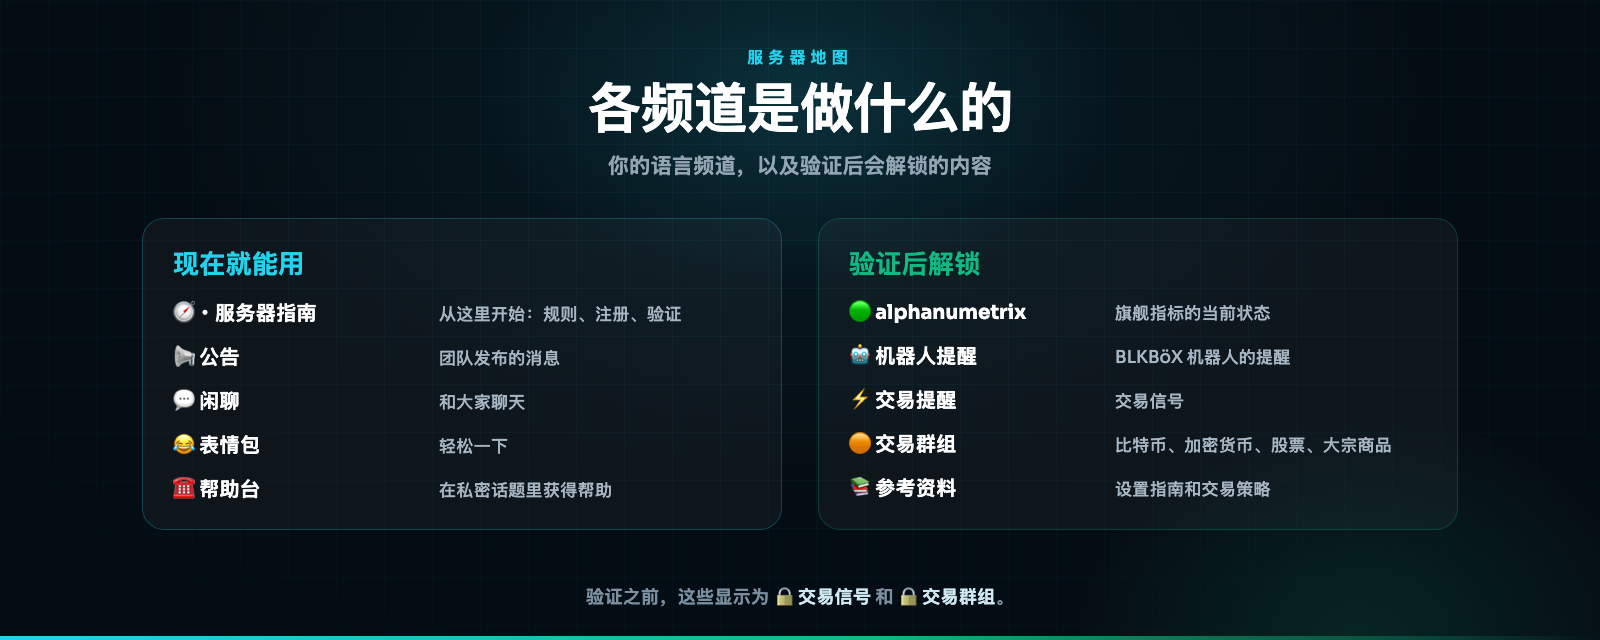
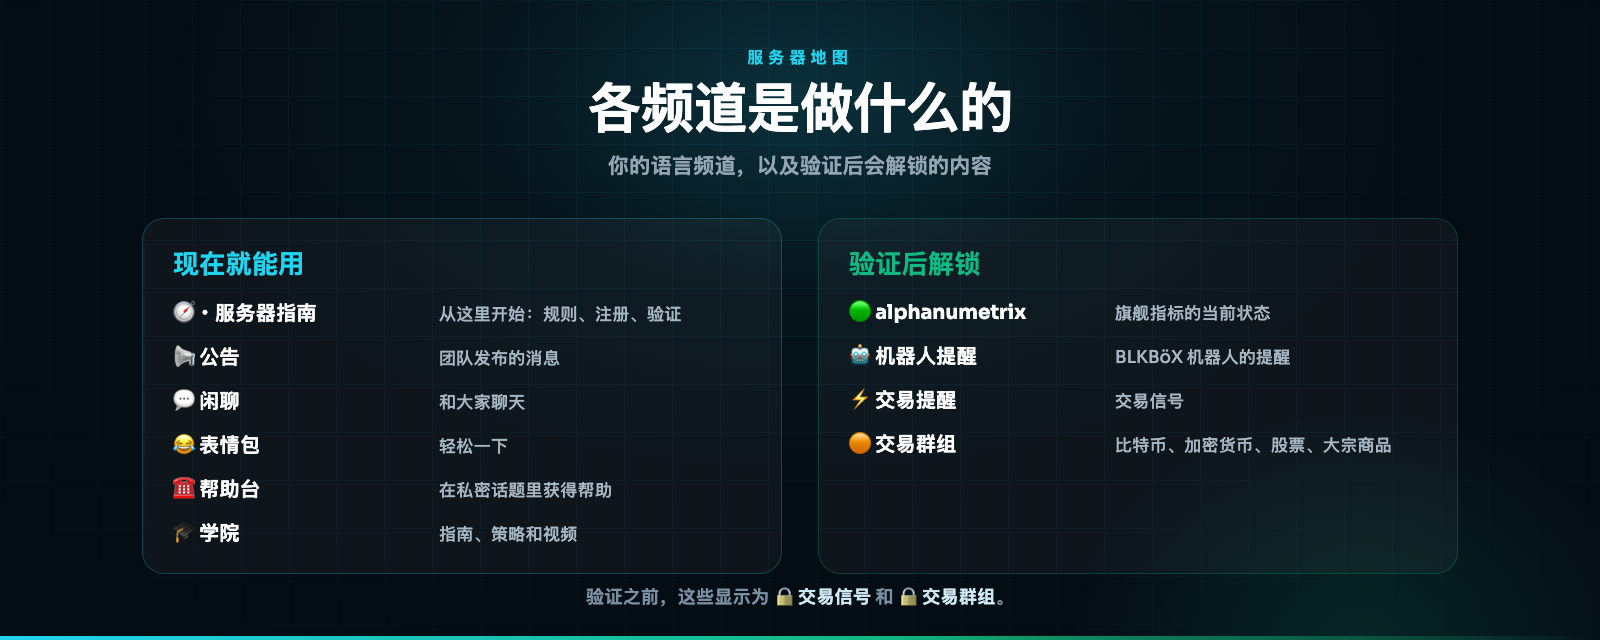
Academy: one forum replaces REFERENCE's three, under help-desk
Setup guides, trading strategies and the discussion forum become one 🎓
academy forum at the bottom of Community, with the same five tags in every
language (setup guide, strategy, video tutorial, question, discussion).
Everyone who picked a language can read it; verified members post and
reply. The mirror now carries a post's tags into its twins by position.

New onboarding step academy moves the English posts into the academy
through a webhook under the original author's name, so the bot translates
them into every language; cleanup deletes the old forums and REFERENCE only
after that. The FAQ and the guide cards describe the academy.

diff --git a/bot/scripts/onboarding.ts b/bot/scripts/onboarding.ts
@@ -23,6 +23,7 @@ import {
   type NonThreadGuildBasedChannel,
   type OverwriteResolvable,
   type TextChannel,
+  type Message,
 } from "discord.js";
 import { dirname, join } from "node:path";
 import { fileURLToPath } from "node:url";
@@ -51,7 +52,7 @@ type Kind =
   | "announcements" | "teaser" | "signals" | "flagship" | "investor" | "daytrade"
   | "lock-flagship" | "lock-investor" | "lock-daytrade" | "lock-crypto" | "lock-stocks" | "lock-commodities"
   | "verify" | "btcgate" | "tradegate" | "general" | "trader" | "bitcoin" | "crypto" | "stocks" | "commodities" | "memes" | "help"
-  | "start" | "guides" | "strategies" | "forums";
+  | "start" | "guides" | "strategies" | "forums" | "academy";
 
 interface Spec {
   name: string;
@@ -102,9 +103,8 @@ const LAYOUT: { cat: "ann" | "com" | "ref"; top?: true; kind: Kind; tier: Tier; 
   { cat: "com", kind: "memes", tier: "free" },
   // Help-desk last in Community, memes just above it.
   { cat: "com", kind: "help", tier: "help", readOnly: true, panel: "support" },
-  { cat: "ref", kind: "guides", tier: "member", type: "forum" },
-  { cat: "ref", kind: "strategies", tier: "member", type: "forum" },
-  { cat: "ref", kind: "forums", tier: "member", type: "forum" },
+  // One forum for guides, strategies, videos and questions, under help-desk: everyone reads, verified members post.
+  { cat: "com", kind: "academy", tier: "trader", type: "forum" },
 ];
 
 /** The categories as they were named with an emoji; renamed in place to the folder style below. */
@@ -133,16 +133,16 @@ const CATS = Object.fromEntries(
 ) as Record<Lang, Record<"ann" | "com" | "ref", string>>;
 
 const NAMES: Record<Lang, Record<Kind, string>> = {
-  en: { announcements: "📢・announcements", flagship: "🟢🟢・alphanumetrix", investor: "💼・investor-signals", daytrade: "🤖・bot-alerts", "lock-flagship": "", "lock-investor": "", "lock-daytrade": "", "lock-crypto": "", "lock-stocks": "", "lock-commodities": "", teaser: "🔒・trade-signals", signals: "⚡・trade-alerts", verify: "✅・verify", btcgate: "🔒・bitcoin", tradegate: "🔒・trading-group", general: "💬・general", trader: "📈・trader-chat", bitcoin: "🟠・bitcoin", crypto: "🪙・crypto", stocks: "📊・stocks", commodities: "🛢・commodities", memes: "😂・memes", help: "☎・help-desk", start: "🧭・server-guide", guides: "📕・setup-guides", strategies: "📗・trading-strategies", forums: "🧵・forums" },
-  zh: { announcements: "📢・公告", flagship: "🟢🟢・alphanumetrix", investor: "💼・投资信号", daytrade: "🤖・机器人提醒", "lock-flagship": "", "lock-investor": "", "lock-daytrade": "", "lock-crypto": "", "lock-stocks": "", "lock-commodities": "", teaser: "🔒・交易信号", signals: "⚡・交易提醒", verify: "✅・验证", btcgate: "🔒・比特币", tradegate: "🔒・交易群组", general: "💬・闲聊", trader: "📈・交易者聊天", bitcoin: "🟠・比特币", crypto: "🪙・加密货币", stocks: "📊・股票", commodities: "🛢・大宗商品", memes: "😂・表情包", help: "☎・帮助台", start: "🧭・服务器指南", guides: "📕・设置指南", strategies: "📗・交易策略", forums: "🧵・论坛" },
-  ko: { announcements: "📢・공지사항", flagship: "🟢🟢・alphanumetrix", investor: "💼・투자-신호", daytrade: "🤖・봇-알림", "lock-flagship": "", "lock-investor": "", "lock-daytrade": "", "lock-crypto": "", "lock-stocks": "", "lock-commodities": "", teaser: "🔒・매매신호", signals: "⚡・매매신호", verify: "✅・인증", btcgate: "🔒・비트코인", tradegate: "🔒・트레이딩-그룹", general: "💬・자유채팅", trader: "📈・트레이더-채팅", bitcoin: "🟠・비트코인", crypto: "🪙・코인", stocks: "📊・주식", commodities: "🛢・원자재", memes: "😂・밈", help: "☎・도움말", start: "🧭・서버-가이드", guides: "📕・설정-가이드", strategies: "📗・매매-전략", forums: "🧵・포럼" },
-  id: { announcements: "📢・pengumuman", flagship: "🟢🟢・alphanumetrix", investor: "💼・sinyal-investor", daytrade: "🤖・alert-bot", "lock-flagship": "", "lock-investor": "", "lock-daytrade": "", "lock-crypto": "", "lock-stocks": "", "lock-commodities": "", teaser: "🔒・sinyal-trading", signals: "⚡・sinyal-trading", verify: "✅・verifikasi", btcgate: "🔒・bitcoin", tradegate: "🔒・grup-trading", general: "💬・obrolan-umum", trader: "📈・obrolan-trader", bitcoin: "🟠・bitcoin", crypto: "🪙・kripto", stocks: "📊・saham", commodities: "🛢・komoditas", memes: "😂・meme", help: "☎・bantuan", start: "🧭・panduan-server", guides: "📕・panduan-setup", strategies: "📗・strategi-trading", forums: "🧵・forum" },
-  vi: { announcements: "📢・thông-báo", flagship: "🟢🟢・alphanumetrix", investor: "💼・tín-hiệu-đầu-tư", daytrade: "🤖・cảnh-báo-bot", "lock-flagship": "", "lock-investor": "", "lock-daytrade": "", "lock-crypto": "", "lock-stocks": "", "lock-commodities": "", teaser: "🔒・tín-hiệu-giao-dịch", signals: "⚡・tín-hiệu", verify: "✅・xác-minh", btcgate: "🔒・bitcoin", tradegate: "🔒・nhóm-giao-dịch", general: "💬・tán-gẫu", trader: "📈・trò-chuyện-trader", bitcoin: "🟠・bitcoin", crypto: "🪙・crypto", stocks: "📊・cổ-phiếu", commodities: "🛢・hàng-hóa", memes: "😂・meme", help: "☎・hỗ-trợ", start: "🧭・hướng-dẫn-server", guides: "📕・hướng-dẫn", strategies: "📗・chiến-lược", forums: "🧵・diễn-đàn" },
-  es: { announcements: "📢・anuncios", flagship: "🟢🟢・alphanumetrix", investor: "💼・señales-inversión", daytrade: "🤖・alertas-bot", "lock-flagship": "", "lock-investor": "", "lock-daytrade": "", "lock-crypto": "", "lock-stocks": "", "lock-commodities": "", teaser: "🔒・señales-trading", signals: "⚡・alertas", verify: "✅・verificar", btcgate: "🔒・bitcoin", tradegate: "🔒・grupo-trading", general: "💬・general", trader: "📈・chat-traders", bitcoin: "🟠・bitcoin", crypto: "🪙・cripto", stocks: "📊・acciones", commodities: "🛢・materias-primas", memes: "😂・memes", help: "☎・ayuda", start: "🧭・guía-del-servidor", guides: "📕・guías", strategies: "📗・estrategias", forums: "🧵・foros" },
-  pt: { announcements: "📢・anúncios", flagship: "🟢🟢・alphanumetrix", investor: "💼・sinais-investimento", daytrade: "🤖・alertas-bot", "lock-flagship": "", "lock-investor": "", "lock-daytrade": "", "lock-crypto": "", "lock-stocks": "", "lock-commodities": "", teaser: "🔒・sinais-trading", signals: "⚡・alertas", verify: "✅・verificar", btcgate: "🔒・bitcoin", tradegate: "🔒・grupo-trading", general: "💬・geral", trader: "📈・chat-traders", bitcoin: "🟠・bitcoin", crypto: "🪙・cripto", stocks: "📊・ações", commodities: "🛢・commodities", memes: "😂・memes", help: "☎・ajuda", start: "🧭・guia-do-servidor", guides: "📕・guias", strategies: "📗・estratégias", forums: "🧵・fóruns" },
-  tr: { announcements: "📢・duyurular", flagship: "🟢🟢・alphanumetrix", investor: "💼・yatırım-sinyalleri", daytrade: "🤖・bot-uyarıları", "lock-flagship": "", "lock-investor": "", "lock-daytrade": "", "lock-crypto": "", "lock-stocks": "", "lock-commodities": "", teaser: "🔒・işlem-sinyalleri", signals: "⚡・sinyaller", verify: "✅・doğrulama", btcgate: "🔒・bitcoin", tradegate: "🔒・trading-grubu", general: "💬・sohbet", trader: "📈・trader-sohbet", bitcoin: "🟠・bitcoin", crypto: "🪙・kripto", stocks: "📊・hisseler", commodities: "🛢・emtia", memes: "😂・mizah", help: "☎・yardım", start: "🧭・sunucu-rehberi", guides: "📕・kurulum-rehberi", strategies: "📗・stratejiler", forums: "🧵・forum" },
-  ru: { announcements: "📢・объявления", flagship: "🟢🟢・alphanumetrix", investor: "💼・инвест-сигналы", daytrade: "🤖・алерты-бота", "lock-flagship": "", "lock-investor": "", "lock-daytrade": "", "lock-crypto": "", "lock-stocks": "", "lock-commodities": "", teaser: "🔒・торговые-сигналы", signals: "⚡・сигналы", verify: "✅・верификация", btcgate: "🔒・биткоин", tradegate: "🔒・трейдинг-группа", general: "💬・общий-чат", trader: "📈・чат-трейдеров", bitcoin: "🟠・биткоин", crypto: "🪙・крипта", stocks: "📊・акции", commodities: "🛢・сырьё", memes: "😂・мемы", help: "☎・помощь", start: "🧭・гид-по-серверу", guides: "📕・гайды", strategies: "📗・стратегии", forums: "🧵・форум" },
-  ja: { announcements: "📢・お知らせ", flagship: "🟢🟢・alphanumetrix", investor: "💼・投資シグナル", daytrade: "🤖・ボットアラート", "lock-flagship": "", "lock-investor": "", "lock-daytrade": "", "lock-crypto": "", "lock-stocks": "", "lock-commodities": "", teaser: "🔒・トレードシグナル", signals: "⚡・シグナル", verify: "✅・認証", btcgate: "🔒・ビットコイン", tradegate: "🔒・トレードグループ", general: "💬・雑談", trader: "📈・トレーダー-チャット", bitcoin: "🟠・ビットコイン", crypto: "🪙・暗号資産", stocks: "📊・株式", commodities: "🛢・コモディティ", memes: "😂・ミーム", help: "☎・ヘルプ", start: "🧭・サーバーガイド", guides: "📕・設定ガイド", strategies: "📗・トレード戦略", forums: "🧵・フォーラム" },
+  en: { academy: "🎓・academy", announcements: "📢・announcements", flagship: "🟢🟢・alphanumetrix", investor: "💼・investor-signals", daytrade: "🤖・bot-alerts", "lock-flagship": "", "lock-investor": "", "lock-daytrade": "", "lock-crypto": "", "lock-stocks": "", "lock-commodities": "", teaser: "🔒・trade-signals", signals: "⚡・trade-alerts", verify: "✅・verify", btcgate: "🔒・bitcoin", tradegate: "🔒・trading-group", general: "💬・general", trader: "📈・trader-chat", bitcoin: "🟠・bitcoin", crypto: "🪙・crypto", stocks: "📊・stocks", commodities: "🛢・commodities", memes: "😂・memes", help: "☎・help-desk", start: "🧭・server-guide", guides: "📕・setup-guides", strategies: "📗・trading-strategies", forums: "🧵・forums" },
+  zh: { academy: "🎓・学院", announcements: "📢・公告", flagship: "🟢🟢・alphanumetrix", investor: "💼・投资信号", daytrade: "🤖・机器人提醒", "lock-flagship": "", "lock-investor": "", "lock-daytrade": "", "lock-crypto": "", "lock-stocks": "", "lock-commodities": "", teaser: "🔒・交易信号", signals: "⚡・交易提醒", verify: "✅・验证", btcgate: "🔒・比特币", tradegate: "🔒・交易群组", general: "💬・闲聊", trader: "📈・交易者聊天", bitcoin: "🟠・比特币", crypto: "🪙・加密货币", stocks: "📊・股票", commodities: "🛢・大宗商品", memes: "😂・表情包", help: "☎・帮助台", start: "🧭・服务器指南", guides: "📕・设置指南", strategies: "📗・交易策略", forums: "🧵・论坛" },
+  ko: { academy: "🎓・아카데미", announcements: "📢・공지사항", flagship: "🟢🟢・alphanumetrix", investor: "💼・투자-신호", daytrade: "🤖・봇-알림", "lock-flagship": "", "lock-investor": "", "lock-daytrade": "", "lock-crypto": "", "lock-stocks": "", "lock-commodities": "", teaser: "🔒・매매신호", signals: "⚡・매매신호", verify: "✅・인증", btcgate: "🔒・비트코인", tradegate: "🔒・트레이딩-그룹", general: "💬・자유채팅", trader: "📈・트레이더-채팅", bitcoin: "🟠・비트코인", crypto: "🪙・코인", stocks: "📊・주식", commodities: "🛢・원자재", memes: "😂・밈", help: "☎・도움말", start: "🧭・서버-가이드", guides: "📕・설정-가이드", strategies: "📗・매매-전략", forums: "🧵・포럼" },
+  id: { academy: "🎓・akademi", announcements: "📢・pengumuman", flagship: "🟢🟢・alphanumetrix", investor: "💼・sinyal-investor", daytrade: "🤖・alert-bot", "lock-flagship": "", "lock-investor": "", "lock-daytrade": "", "lock-crypto": "", "lock-stocks": "", "lock-commodities": "", teaser: "🔒・sinyal-trading", signals: "⚡・sinyal-trading", verify: "✅・verifikasi", btcgate: "🔒・bitcoin", tradegate: "🔒・grup-trading", general: "💬・obrolan-umum", trader: "📈・obrolan-trader", bitcoin: "🟠・bitcoin", crypto: "🪙・kripto", stocks: "📊・saham", commodities: "🛢・komoditas", memes: "😂・meme", help: "☎・bantuan", start: "🧭・panduan-server", guides: "📕・panduan-setup", strategies: "📗・strategi-trading", forums: "🧵・forum" },
+  vi: { academy: "🎓・học-viện", announcements: "📢・thông-báo", flagship: "🟢🟢・alphanumetrix", investor: "💼・tín-hiệu-đầu-tư", daytrade: "🤖・cảnh-báo-bot", "lock-flagship": "", "lock-investor": "", "lock-daytrade": "", "lock-crypto": "", "lock-stocks": "", "lock-commodities": "", teaser: "🔒・tín-hiệu-giao-dịch", signals: "⚡・tín-hiệu", verify: "✅・xác-minh", btcgate: "🔒・bitcoin", tradegate: "🔒・nhóm-giao-dịch", general: "💬・tán-gẫu", trader: "📈・trò-chuyện-trader", bitcoin: "🟠・bitcoin", crypto: "🪙・crypto", stocks: "📊・cổ-phiếu", commodities: "🛢・hàng-hóa", memes: "😂・meme", help: "☎・hỗ-trợ", start: "🧭・hướng-dẫn-server", guides: "📕・hướng-dẫn", strategies: "📗・chiến-lược", forums: "🧵・diễn-đàn" },
+  es: { academy: "🎓・academia", announcements: "📢・anuncios", flagship: "🟢🟢・alphanumetrix", investor: "💼・señales-inversión", daytrade: "🤖・alertas-bot", "lock-flagship": "", "lock-investor": "", "lock-daytrade": "", "lock-crypto": "", "lock-stocks": "", "lock-commodities": "", teaser: "🔒・señales-trading", signals: "⚡・alertas", verify: "✅・verificar", btcgate: "🔒・bitcoin", tradegate: "🔒・grupo-trading", general: "💬・general", trader: "📈・chat-traders", bitcoin: "🟠・bitcoin", crypto: "🪙・cripto", stocks: "📊・acciones", commodities: "🛢・materias-primas", memes: "😂・memes", help: "☎・ayuda", start: "🧭・guía-del-servidor", guides: "📕・guías", strategies: "📗・estrategias", forums: "🧵・foros" },
+  pt: { academy: "🎓・academia", announcements: "📢・anúncios", flagship: "🟢🟢・alphanumetrix", investor: "💼・sinais-investimento", daytrade: "🤖・alertas-bot", "lock-flagship": "", "lock-investor": "", "lock-daytrade": "", "lock-crypto": "", "lock-stocks": "", "lock-commodities": "", teaser: "🔒・sinais-trading", signals: "⚡・alertas", verify: "✅・verificar", btcgate: "🔒・bitcoin", tradegate: "🔒・grupo-trading", general: "💬・geral", trader: "📈・chat-traders", bitcoin: "🟠・bitcoin", crypto: "🪙・cripto", stocks: "📊・ações", commodities: "🛢・commodities", memes: "😂・memes", help: "☎・ajuda", start: "🧭・guia-do-servidor", guides: "📕・guias", strategies: "📗・estratégias", forums: "🧵・fóruns" },
+  tr: { academy: "🎓・akademi", announcements: "📢・duyurular", flagship: "🟢🟢・alphanumetrix", investor: "💼・yatırım-sinyalleri", daytrade: "🤖・bot-uyarıları", "lock-flagship": "", "lock-investor": "", "lock-daytrade": "", "lock-crypto": "", "lock-stocks": "", "lock-commodities": "", teaser: "🔒・işlem-sinyalleri", signals: "⚡・sinyaller", verify: "✅・doğrulama", btcgate: "🔒・bitcoin", tradegate: "🔒・trading-grubu", general: "💬・sohbet", trader: "📈・trader-sohbet", bitcoin: "🟠・bitcoin", crypto: "🪙・kripto", stocks: "📊・hisseler", commodities: "🛢・emtia", memes: "😂・mizah", help: "☎・yardım", start: "🧭・sunucu-rehberi", guides: "📕・kurulum-rehberi", strategies: "📗・stratejiler", forums: "🧵・forum" },
+  ru: { academy: "🎓・академия", announcements: "📢・объявления", flagship: "🟢🟢・alphanumetrix", investor: "💼・инвест-сигналы", daytrade: "🤖・алерты-бота", "lock-flagship": "", "lock-investor": "", "lock-daytrade": "", "lock-crypto": "", "lock-stocks": "", "lock-commodities": "", teaser: "🔒・торговые-сигналы", signals: "⚡・сигналы", verify: "✅・верификация", btcgate: "🔒・биткоин", tradegate: "🔒・трейдинг-группа", general: "💬・общий-чат", trader: "📈・чат-трейдеров", bitcoin: "🟠・биткоин", crypto: "🪙・крипта", stocks: "📊・акции", commodities: "🛢・сырьё", memes: "😂・мемы", help: "☎・помощь", start: "🧭・гид-по-серверу", guides: "📕・гайды", strategies: "📗・стратегии", forums: "🧵・форум" },
+  ja: { academy: "🎓・アカデミー", announcements: "📢・お知らせ", flagship: "🟢🟢・alphanumetrix", investor: "💼・投資シグナル", daytrade: "🤖・ボットアラート", "lock-flagship": "", "lock-investor": "", "lock-daytrade": "", "lock-crypto": "", "lock-stocks": "", "lock-commodities": "", teaser: "🔒・トレードシグナル", signals: "⚡・シグナル", verify: "✅・認証", btcgate: "🔒・ビットコイン", tradegate: "🔒・トレードグループ", general: "💬・雑談", trader: "📈・トレーダー-チャット", bitcoin: "🟠・ビットコイン", crypto: "🪙・暗号資産", stocks: "📊・株式", commodities: "🛢・コモディティ", memes: "😂・ミーム", help: "☎・ヘルプ", start: "🧭・サーバーガイド", guides: "📕・設定ガイド", strategies: "📗・トレード戦略", forums: "🧵・フォーラム" },
 };
 
 /** Names the bot-alerts channel had as day-trade signals, so the migration renames instead of recreating. */
@@ -189,10 +189,46 @@ const EN_OLD: Partial<Record<Kind, string | null>> = {
 const MIRROR_GROUP: Partial<Record<Kind, string>> = {
   announcements: "announcements", teaser: "trade-alerts-teaser", signals: "trade-alerts",
   general: "general", trader: "trader-chat", bitcoin: "bitcoin", help: "help-desk", memes: "memes",
-  guides: "setup-guides", strategies: "trading-strategies", forums: "forums",
+  guides: "setup-guides", strategies: "trading-strategies", forums: "forums", academy: "academy",
   crypto: "crypto", stocks: "stocks", commodities: "commodities",
   flagship: "alphanumetrix", daytrade: "bot-alerts",
 };
+
+/**
+ * The academy's tags, in the same order in every language: the mirror maps a
+ * post's tags to its twins by position.
+ */
+const ACADEMY_TAG_EMOJI = ["📕", "📗", "🎬", "❓", "💬"] as const;
+const ACADEMY_TAGS: Record<Lang, string[]> = {
+  en: ["Setup guide", "Strategy", "Video tutorial", "Question", "Discussion"],
+  zh: ["设置指南", "策略", "视频教程", "提问", "讨论"],
+  ko: ["설정 가이드", "전략", "영상 강의", "질문", "토론"],
+  id: ["Panduan setup", "Strategi", "Video tutorial", "Pertanyaan", "Diskusi"],
+  vi: ["Hướng dẫn cài đặt", "Chiến lược", "Video hướng dẫn", "Câu hỏi", "Thảo luận"],
+  es: ["Configuración", "Estrategia", "Video tutorial", "Pregunta", "Debate"],
+  pt: ["Configuração", "Estratégia", "Vídeo tutorial", "Pergunta", "Discussão"],
+  tr: ["Kurulum rehberi", "Strateji", "Video eğitim", "Soru", "Tartışma"],
+  ru: ["Настройка", "Стратегия", "Видеоурок", "Вопрос", "Обсуждение"],
+  ja: ["設定ガイド", "戦略", "動画チュートリアル", "質問", "ディスカッション"],
+};
+const academyTags = (lang: Lang) => ACADEMY_TAGS[lang].map((name, i) => ({ name, emoji: { id: null, name: ACADEMY_TAG_EMOJI[i] } }));
+/** The forums the academy replaces, with the tag their posts get when they move. */
+const ACADEMY_FROM: { kind: "guides" | "strategies" | "forums"; tag: number }[] = [
+  { kind: "guides", tag: 0 },
+  { kind: "strategies", tag: 1 },
+  { kind: "forums", tag: 4 },
+];
+/** Where an old forum is: under REFERENCE, folder style or emoji style, with or without its branch. */
+function oldForum(guild: Guild, lang: Lang, kind: "guides" | "strategies" | "forums") {
+  const plain = NAMES[lang][kind];
+  for (const parent of [CATS[lang].ref, CATS_EMOJI[lang].ref]) {
+    for (const name of [BRANCH + plain, plain]) {
+      const ch = findChannel(guild, { name, parent });
+      if (ch?.type === ChannelType.GuildForum) return ch;
+    }
+  }
+  return undefined;
+}
 
 const PICKER: Spec = { name: "🌐・choose-language", parent: null, lang: "all", tier: "picker", readOnly: true, topic: "Pick your language to enter", panel: "picker" };
 
@@ -219,8 +255,9 @@ for (const lang of LANGS) {
   }
 }
 
+// REFERENCE is gone: its forums became the academy. Cleanup deletes it once the posts have moved.
 const CATEGORY_SPECS: { name: string; old: string; lang: Lang; tier: Tier }[] = LANGS.flatMap((lang) =>
-  (["ann", "com", "ref"] as const).map((k) => ({ name: CATS[lang][k], old: CATS_EMOJI[lang][k], lang, tier: "free" as Tier })),
+  (["ann", "com"] as const).map((k) => ({ name: CATS[lang][k], old: CATS_EMOJI[lang][k], lang, tier: "free" as Tier })),
 );
 
 /**
@@ -235,7 +272,7 @@ const BOT_ALLOW = [P.ViewChannel, P.SendMessages, P.ReadMessageHistory, P.Manage
 
 const TRANSLATE_PNG = join(dirname(fileURLToPath(import.meta.url)), "..", "assets", "emoji", "translate.png");
 
-const STEPS = ["roles", "members", "channels", "perms", "mirror", "notify", "panels", "rules", "vip", "cleanup"] as const;
+const STEPS = ["roles", "members", "channels", "perms", "mirror", "notify", "panels", "academy", "rules", "vip", "cleanup"] as const;
 type Step = (typeof STEPS)[number];
 
 interface Ctx {
@@ -367,6 +404,7 @@ async function stepChannels(ctx: Ctx) {
       type: TYPE[s.type ?? "text"] as ChannelType.GuildText,
       parent: parent?.id,
       topic: s.type === "voice" ? undefined : s.topic,
+      ...(s.kind === "academy" && s.lang !== "all" ? { availableTags: academyTags(s.lang) } : {}),
       permissionOverwrites: [
         { id: guild.roles.everyone.id, deny: [P.ViewChannel] },
         { id: me.id, type: OverwriteType.Member, allow: BOT_ALLOW },
@@ -376,6 +414,15 @@ async function stepChannels(ctx: Ctx) {
   }
   if (!ctx.apply) return;
   await guild.channels.fetch();
+
+  // An academy made before its tags existed gets them now.
+  for (const s of SPECS.filter((x) => x.kind === "academy" && x.lang !== "all")) {
+    const ch = findChannel(guild, s);
+    if (ch?.type === ChannelType.GuildForum && ch.availableTags.length === 0) {
+      log(`  tag #${ch.name}`);
+      await ch.setAvailableTags(academyTags(s.lang as Lang), "onboarding: academy tags");
+    }
+  }
 
   // Order: picker on top, then each language's three categories, channels in layout order.
   const positions: { channel: string; position: number }[] = [];
@@ -463,8 +510,80 @@ async function stepVip(ctx: Ctx) {
 }
 
 /** Old categories the restructure emptied. Anything still holding a channel (vip-chat, mod-chat) stays. */
+/**
+ * Moves the English posts of the old guide, strategy and discussion forums into
+ * the academy, tagged, under their original author's name and avatar. They go
+ * through a webhook of our own, so the running bot mirrors and translates them
+ * into every other language's academy, as with any new post. The other
+ * languages' old forums only hold translations of these, so they need no move.
+ * Replies stay behind in the old forums. Each move is recorded, so a rerun only
+ * moves what is left; cleanup deletes the old forums once everything moved.
+ */
+async function stepAcademy(ctx: Ctx) {
+  const { guild, db } = ctx;
+  const target = findChannel(guild, SPECS.find((s) => s.lang === "en" && s.kind === "academy")!);
+  if (target?.type !== ChannelType.GuildForum) { log("  ! no English academy yet (run channels first)"); return; }
+  const hooks = ctx.apply ? await target.fetchWebhooks() : null;
+  const hook = hooks?.find((h) => h.name === "BLKBöX Academy" && h.token) ?? (ctx.apply ? await target.createWebhook({ name: "BLKBöX Academy", reason: "onboarding: academy move" }) : null);
+  let left = 0;
+  for (const from of ACADEMY_FROM) {
+    const forum = oldForum(guild, "en", from.kind);
+    if (!forum) continue;
+    const active = await forum.threads.fetchActive();
+    const archived = await forum.threads.fetchArchived({ fetchAll: true });
+    const posts = [...active.threads.filter((t) => t.parentId === forum.id).values(), ...archived.threads.values()].sort((a, b) => (a.createdTimestamp ?? 0) - (b.createdTimestamp ?? 0));
+    for (const t of posts) {
+      if (await db.getSetting(guild.id, `academy_moved:${t.id}`)) continue;
+      left++;
+      log(`  move "${t.name}" from #${forum.name} → #${target.name} [${ACADEMY_TAGS.en[from.tag]}]`);
+      if (!ctx.apply || !hook) continue;
+      const starter = await t.fetchStarterMessage().catch(() => null);
+      if (!starter) { log(`  ! "${t.name}" has no opening message, skipped`); continue; }
+      const sent = await hook.send({
+        threadName: t.name.slice(0, 100),
+        content: starter.content || "\u200b",
+        files: [...starter.attachments.values()].map((a) => ({ attachment: a.url, name: a.name })),
+        embeds: starter.embeds.filter((e) => !e.data.type || e.data.type === "rich").map((e) => e.toJSON()),
+        username: (starter.member?.displayName ?? starter.author.displayName ?? starter.author.username).slice(0, 80),
+        avatarURL: starter.author.displayAvatarURL(),
+        appliedTags: [target.availableTags[from.tag]?.id].filter((x): x is string => !!x),
+        allowedMentions: { parse: [] },
+      });
+      await db.setSetting(guild.id, `academy_moved:${t.id}`, sent.channelId);
+      left--;
+      // One post at a time, so the mirror translates each before the next lands.
+      await new Promise((r) => setTimeout(r, 4000));
+    }
+  }
+  if (!left) {
+    log("  every post is in the academy");
+    if (ctx.apply) await db.setSetting(guild.id, "academy_moved", "1");
+  }
+}
+
 async function stepCleanup(ctx: Ctx) {
   const { guild } = ctx;
+  // The old forums and REFERENCE, once the academy step has moved every post.
+  const moved = await ctx.db.getSetting(guild.id, "academy_moved");
+  for (const lang of LANGS) {
+    for (const from of ACADEMY_FROM) {
+      const forum = oldForum(guild, lang, from.kind);
+      if (!forum) continue;
+      if (!moved) { log(`  keep #${forum.name} (${lang}; run the academy step first)`); continue; }
+      log(`  delete #${forum.name} (${lang}; its posts are in the academy)`);
+      if (!ctx.apply) continue;
+      await ctx.db.removeMember(forum.id);
+      await forum.delete("onboarding: folded into the academy");
+    }
+    for (const name of [CATS[lang].ref, CATS_EMOJI[lang].ref]) {
+      const cat = findCategory(guild, name);
+      if (!cat) continue;
+      const left = guild.channels.cache.filter((c) => c.parentId === cat.id && !(ctx.apply && c.type === ChannelType.GuildForum && moved));
+      if (left.size) { log(`  keep ${name} (still holds ${left.map((c) => "#" + c.name).join(", ")})`); continue; }
+      log(`  delete empty category ${name}`);
+      if (ctx.apply) await cat.delete("onboarding: REFERENCE folded into the academy");
+    }
+  }
   // The 🔒 alphanumetrix and bot-alerts stand-ins, folded into 🔒 trade-signals.
   for (const lang of LANGS) {
     const parent = CATS[lang].ann;
@@ -660,7 +779,7 @@ async function stepPanels(ctx: Ctx) {
       await ctx.db.setSetting(guild.id, `support_channel:${lang}`, ch.id);
     } else if (s.panel === "start") {
       // Post the guide, then point the jump-to card at the sections it just posted.
-      const sent = [];
+      const sent: Message[] = [];
       for (const msg of startHereMessages({ helpDeskUrl, lang })) sent.push(await ch.send(msg));
       const url = (key: (typeof GUIDE_SECTIONS)[number]) => sent[GUIDE_SECTIONS.indexOf(key)]?.url ?? "";
       const nav = sent[GUIDE_SECTIONS.indexOf("nav")];
@@ -742,7 +861,7 @@ async function main() {
   };
   try {
     log(apply ? "APPLYING" : "DRY RUN (add --apply to make these changes)");
-    const run: Record<Step, (c: Ctx) => Promise<void>> = { roles: stepRoles, members: stepMembers, channels: stepChannels, perms: stepPerms, mirror: stepMirror, panels: stepPanels, rules: stepRules, vip: stepVip, cleanup: stepCleanup, notify: stepNotify };
+    const run: Record<Step, (c: Ctx) => Promise<void>> = { roles: stepRoles, members: stepMembers, channels: stepChannels, perms: stepPerms, mirror: stepMirror, panels: stepPanels, rules: stepRules, vip: stepVip, cleanup: stepCleanup, notify: stepNotify, academy: stepAcademy };
     for (const step of STEPS) {
       if (only && step !== only) continue;
       log(`\n== ${step}`);

diff --git a/bot/src/mirror/mirror.ts b/bot/src/mirror/mirror.ts
@@ -1,4 +1,5 @@
 import {
+  ChannelType,
   EmbedBuilder,
   MessageType,
   type APIEmbed,
@@ -287,6 +288,22 @@ export class Mirror {
    * (also its starter message id) as mirror_message_id, so a thread's twins are
    * mirrorsOf(sourceThreadId), and a mirrored thread finds its source with sourceOf.
    */
+  /**
+   * A post's tags in a twin forum. Every language's forum lists its tags in the
+   * same order (the onboarding script creates them that way), so a tag maps by
+   * position, whatever its translated name.
+   */
+  private twinTags(thread: ThreadChannel, targetForumId: string): string[] {
+    const source = thread.parent;
+    const target = this.d.guild.channels.cache.get(targetForumId);
+    if (!source || source.type !== ChannelType.GuildForum || !target || target.type !== ChannelType.GuildForum) return [];
+    const from = source.availableTags, to = target.availableTags;
+    return thread.appliedTags
+      .map((id) => from.findIndex((t) => t.id === id))
+      .map((i) => (i >= 0 ? to[i]?.id : undefined))
+      .filter((id): id is string => !!id);
+  }
+
   private async mirrorForum(message: Message) {
     const thread = message.channel as ThreadChannel;
     const forumId = thread.parentId!;
@@ -356,6 +373,8 @@ export class Mirror {
           else {
             const t = title && translations && d.member.lang !== hit.member.lang ? translations[d.member.lang]?.[0] ?? title.text : title?.text ?? thread.name;
             opts.threadName = detokenize(t, title?.entities ?? []).slice(0, 100);
+            const tags = this.twinTags(thread, d.member.channel_id);
+            if (tags.length) opts.appliedTags = tags;
           }
           const sent = await hook.send(opts);
           threadId ??= sent.channel_id;

diff --git a/bot/src/infographic/index.ts b/bot/src/infographic/index.ts
@@ -8,7 +8,7 @@ import { Renderer } from "./render.js";
 import { applyStrings, flattenStrings, type Extraction } from "./schema.js";
 
 /** Mirror groups whose forums carry tutorials worth re-rendering. */
-export const TUTORIAL_GROUPS = new Set(["setup-guides", "trading-strategies"]);
+export const TUTORIAL_GROUPS = new Set(["setup-guides", "trading-strategies", "academy"]);
 export const MAX_IMAGES_PER_MESSAGE = 4;
 
 export function infographicsEnabled(env: NodeJS.ProcessEnv = process.env): boolean {

diff --git a/bot/assets/support/faq.md b/bot/assets/support/faq.md
@@ -59,8 +59,10 @@ Guide: channel-map
 Also asked: channel list explained, what are all these channels for
 Announcements carries news from the team. General is open chat and memes is
 for fun. help-desk is where you open a help thread. The 🔒 channels hold the
-signals and the trading group, and open once you verify your UID. Reference
-holds setup guides and trading strategies for verified members.
+signals and the trading group, and open once you verify your UID. The 🎓
+academy, at the very bottom of Community, holds setup guides, trading
+strategies and video tutorials: everyone can read it, and verified members can
+post and reply.
 Guide: channel-map
 
 ## How do I find my help thread again?
@@ -214,8 +216,8 @@ Guide: verify
 ## What do I get after I verify?
 Also asked: what unlocks, benefits of verifying, what's in the locked channels
 The AlphanumetriX channel, bot alerts and trade alerts, the trading group
-chats (bitcoin, crypto, stocks, commodities), and the setup guides and
-trading strategies forums.
+chats (bitcoin, crypto, stocks, commodities), and the right to post and reply
+in the 🎓 academy (everyone can read it).
 Guide: channel-map
 
 ## Where are the sign-up links?
@@ -403,10 +405,13 @@ Also asked: bitcoin channel, crypto channel, stocks, commodities
 The trading group is the bitcoin, crypto, stocks and commodities chats. They
 open once you verify your UID.
 
-## What is in setup guides and trading strategies?
-Also asked: reference, forums, tutorials
-Setup guides walk you through the tools step by step, and trading strategies
-covers how the team uses the signals. Both open once you verify.
+## What is in the academy?
+Also asked: reference, forums, tutorials, setup guides, trading strategies, videos
+The 🎓 academy is one forum at the bottom of Community. Each post has a tag:
+Setup guide (the tools step by step), Strategy (how the team uses the
+signals), Video tutorial, Question and Discussion. Tap a tag at the top of the
+forum to see only those posts. Everyone can read it; verified members can post
+and reply.
 
 ## Can I ask questions about a trade?
 Also asked: what do you think about this coin, chart review
